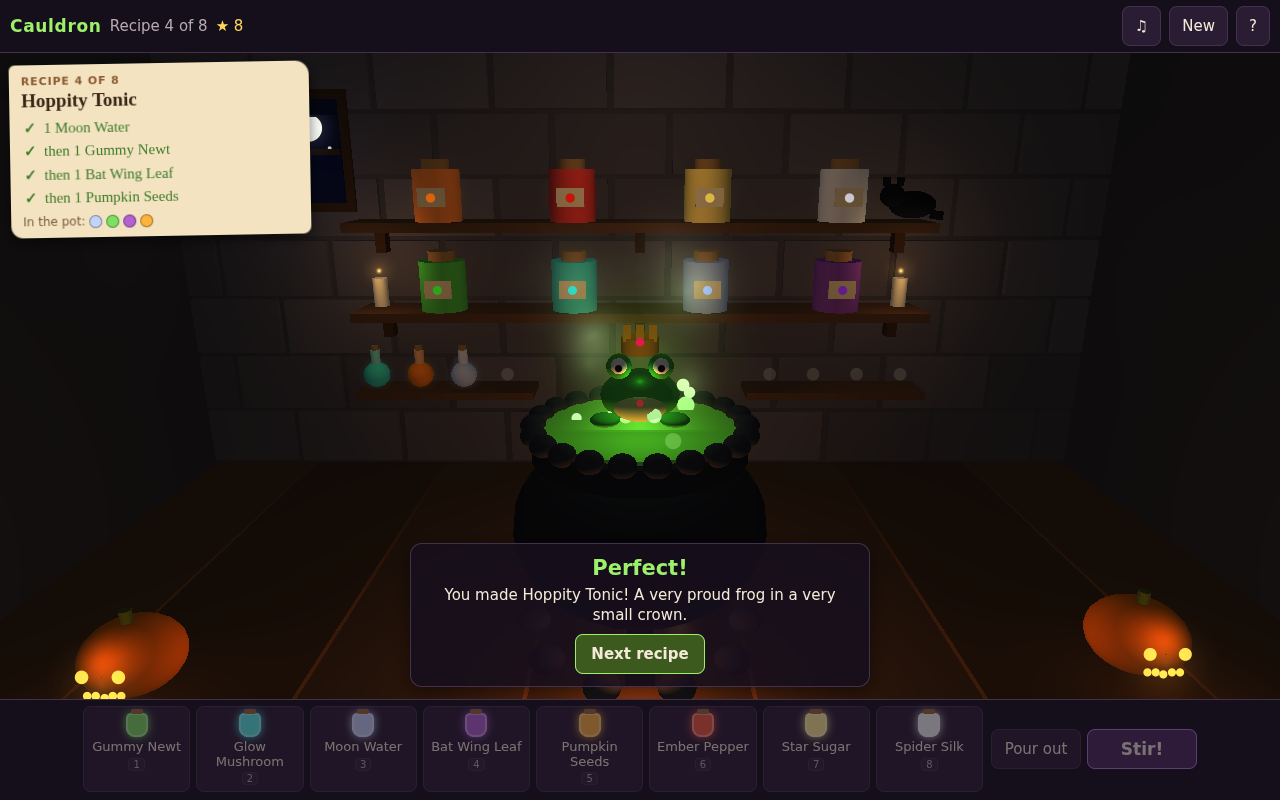
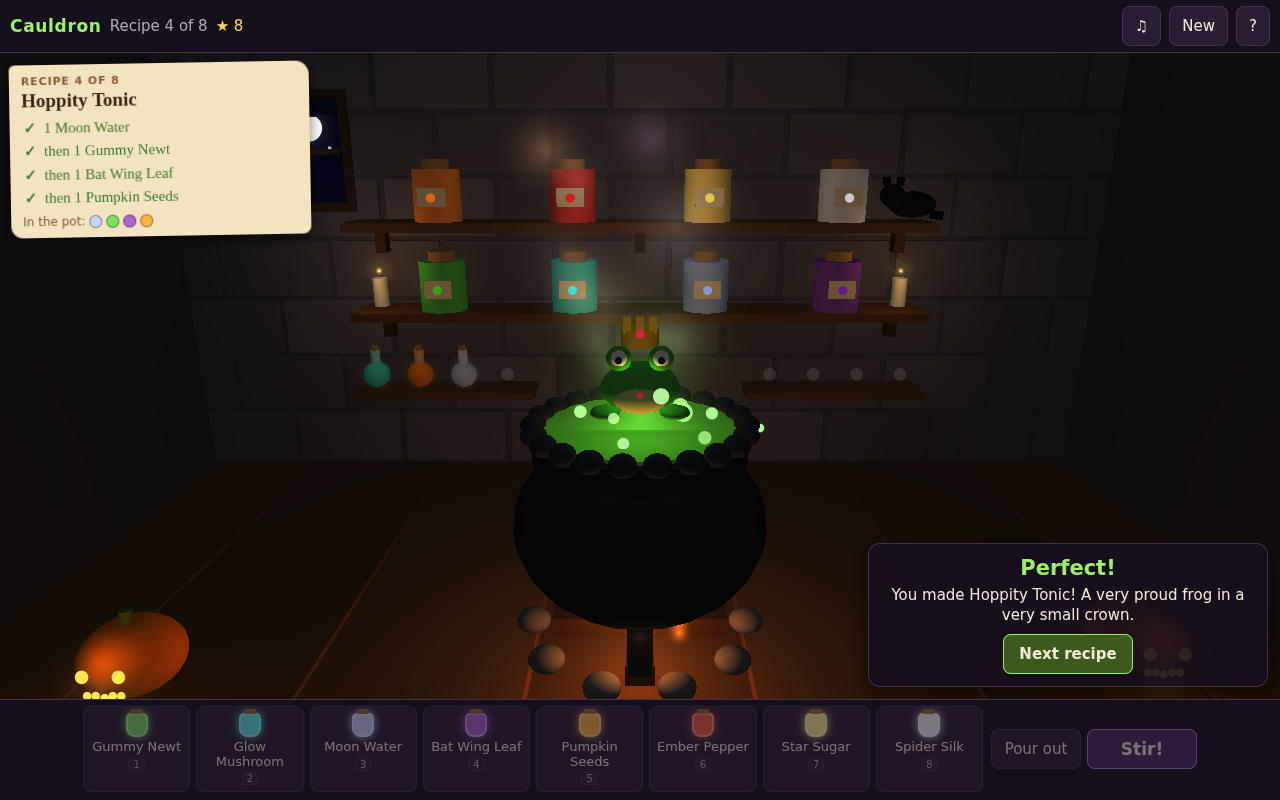
Phones: frame the cottage between the card and the verdict; frog on the rim
- The page tells the game how much of the canvas the recipe card and the
  verdict cover on narrow screens (cauldron_cover); the view eases to fit
  the shelves and the pot into the rest, so no jar hides under the card.
- The frog leaps onto the cauldron's rim and hops along it, where it is
  in view on every screen.
- Polka dots stand a little proud of the walls (no half discs).
- Shelf buttons on phones: a colour edge instead of the jar icon, so
  every name fits; landscape phones put the verdict at the right.
- The smoke test waits for the jar to hold still before tapping it.
- README: fresh screenshots.

drafted by Claude on behalf of Daniel Stephenson

Claude-Session: https://claude.ai/code/session_01LYNeunH2TQ4AwomiMSMtLa

diff --git a/web/shell.html b/web/shell.html
@@ -60,8 +60,8 @@
   #toast .row button { min-width: 130px; font-weight: 700; }
   #nextBtn, #againBtn { background: #3d5a1e; border-color: var(--glow); }
   /* Wide screens: the verdict sits at the bottom right, clear of the hearth (and the frog). */
-  @media (min-width: 900px) {
-    #toast { left: auto; right: max(16px, env(safe-area-inset-right)); bottom: 16px; transform: none; width: 400px; }
+  @media (min-width: 900px), (max-height: 500px) and (min-width: 560px) {
+    #toast { left: auto; right: max(12px, env(safe-area-inset-right)); bottom: 12px; transform: none; width: min(400px, 46%); }
     #toast.show { animation-name: popRight; }
   }
   @keyframes popRight { from { transform: scale(0.85); opacity: 0; } to { transform: scale(1); opacity: 1; } }
@@ -102,9 +102,9 @@
   /* Phones: the card goes across the top, small; the shelf is two rows of four. */
   @media (max-width: 700px) {
     #shelf { grid-template-columns: repeat(4, minmax(0, 1fr)); flex-basis: 100%; }
-    #shelf button { flex-direction: row; justify-content: flex-start; min-height: 46px; font-size: 12px; text-align: left; padding: 4px 4px; gap: 4px; }
-    #shelf button .jar { flex: 0 0 auto; width: 12px; height: 17px; border-width: 1px; }
-    #shelf button .nm { -webkit-hyphens: auto; hyphens: auto; }
+    #shelf button { flex-direction: row; justify-content: flex-start; min-height: 46px; font-size: 12.5px; text-align: left; padding: 4px 6px; gap: 4px; }
+    #shelf button .jar, #shelf kbd { display: none; }
+    #shelf button { border-left: 6px solid var(--c); box-shadow: inset 8px 0 10px -8px var(--c); }
     #toast { padding: 8px 10px 10px; }
     #toast h3 { font-size: 18px; }
     #toast p { font-size: 13.5px; margin-bottom: 7px; }
@@ -130,6 +130,9 @@
     #card ol { display: block; }
     #card h2 { font-size: 15px; }
     #card li { font-size: 12.5px; }
+    #toast { padding: 6px 10px 8px; }
+    #toast h3 { font-size: 16px; }
+    #toast p { font-size: 13px; margin-bottom: 5px; }
     #top { padding-top: 3px; padding-bottom: 3px; }
     #top button { min-height: 32px; padding: 3px 9px; }
     .bar { gap: 6px; }

diff --git a/src/play/cottage.cpp b/src/play/cottage.cpp
@@ -716,16 +716,21 @@ void Cottage::draw() {
         const float t = effectT_;
         switch (out) {
         case Outcome::Frog: {
+            // Out of the pot in one leap onto the rim, then round the rim, hop by hop.
+            const float rim = 1.02f;
             V3 at;
             float squash = 1;
-            if (t < 0.9f) {  // out of the pot in one leap
+            const float front = kPi * 0.5f;  // the rim's near side
+            if (t < 0.9f) {
                 const float u = t / 0.9f;
-                at = {lerp(c.x, 1.6f, u), c.y + 1.0f + std::sin(u * kPi) * 1.5f - u * (c.y + 1.0f), lerp(c.z, 2.4f, u)};
+                const V3 land{c.x + std::cos(front + 0.6f) * rim, c.y + 0.95f, c.z + std::sin(front + 0.6f) * rim};
+                at = {lerp(c.x, land.x, u), c.y + 0.9f + std::sin(u * kPi) * 1.3f, lerp(c.z, land.z, u)};
             } else {
                 const float h = (t - 0.9f) * 1.2f;
                 const float ph = h - std::floor(h);
-                const float x = 1.6f * std::cos((t - 0.9f) * 0.75f);
-                at = {x, std::sin(ph * kPi) * 0.6f, 2.4f + 0.3f * std::sin((t - 0.9f) * 0.75f)};
+                // Each hop moves a step round; it swings back and forth across the near side.
+                const float a = front + 0.6f * std::cos((std::floor(h) + ph) * 0.55f);
+                at = {c.x + std::cos(a) * rim, c.y + 0.95f + std::sin(ph * kPi) * 0.45f, c.z + std::sin(a) * rim};
                 squash = ph < 0.12f ? 0.75f : 1.0f;
             }
             frog(d, at, squash, false);
@@ -760,9 +765,10 @@ void Cottage::draw() {
                 const float u = hash01(static_cast<uint32_t>(k * 3 + 1)), v = hash01(static_cast<uint32_t>(k * 3 + 2));
                 const int face = k % 4;
                 V3 p;
-                if (face == 0 || face == 3) p = {-6.5f + u * 13.0f, 0.2f + v * 6.2f, -3.92f};  // the back wall
-                else if (face == 1) p = {-6.45f, 0.2f + v * 6.2f, -4.0f + u * 9.0f};        // left wall
-                else p = {6.45f, 0.2f + v * 6.2f, -4.0f + u * 9.0f};                       // right wall
+                // A little proud of each wall, so the camera-facing discs aren't cut in half by it.
+                if (face == 0 || face == 3) p = {-6.2f + u * 12.4f, 0.3f + v * 6.0f, -3.72f};  // the back wall
+                else if (face == 1) p = {-6.2f, 0.3f + v * 6.0f, -3.7f + u * 8.7f};          // left wall
+                else p = {6.2f, 0.3f + v * 6.0f, -3.7f + u * 8.7f};                         // right wall
                 if (k % 9 == 4) p = {-6.0f + u * 12.0f, 0.02f, -3.0f + v * 7.0f};          // the floor
                 d.dot(p, 0.42f, dots[k % 5], 1.0f, false, 3);
             }

diff --git a/README.md b/README.md
@@ -23,9 +23,11 @@ The brew changes colour, bubbles and steams as it goes in.
 - Stars for each potion (three when it is right first time), and a finished potion book at the end.
 - Every sound is synthesized in the page as it plays (Web Audio), with no recordings.
 
+![Three spoonfuls of Pumpkin Seeds in Glow Juice: polka dots all over the cottage](docs/images/polka-dots.png)
+
 The witchcraft here is storybook make-believe: a cottage, a cat asleep on the shelf, and silly magic.
 
-![A riddle recipe card, with its answer peeked after two tries](docs/images/riddle.png)
+![On a phone: a riddle recipe card, with its answer peeked after two tries](docs/images/riddle.png)
 
 ## Controls
 
